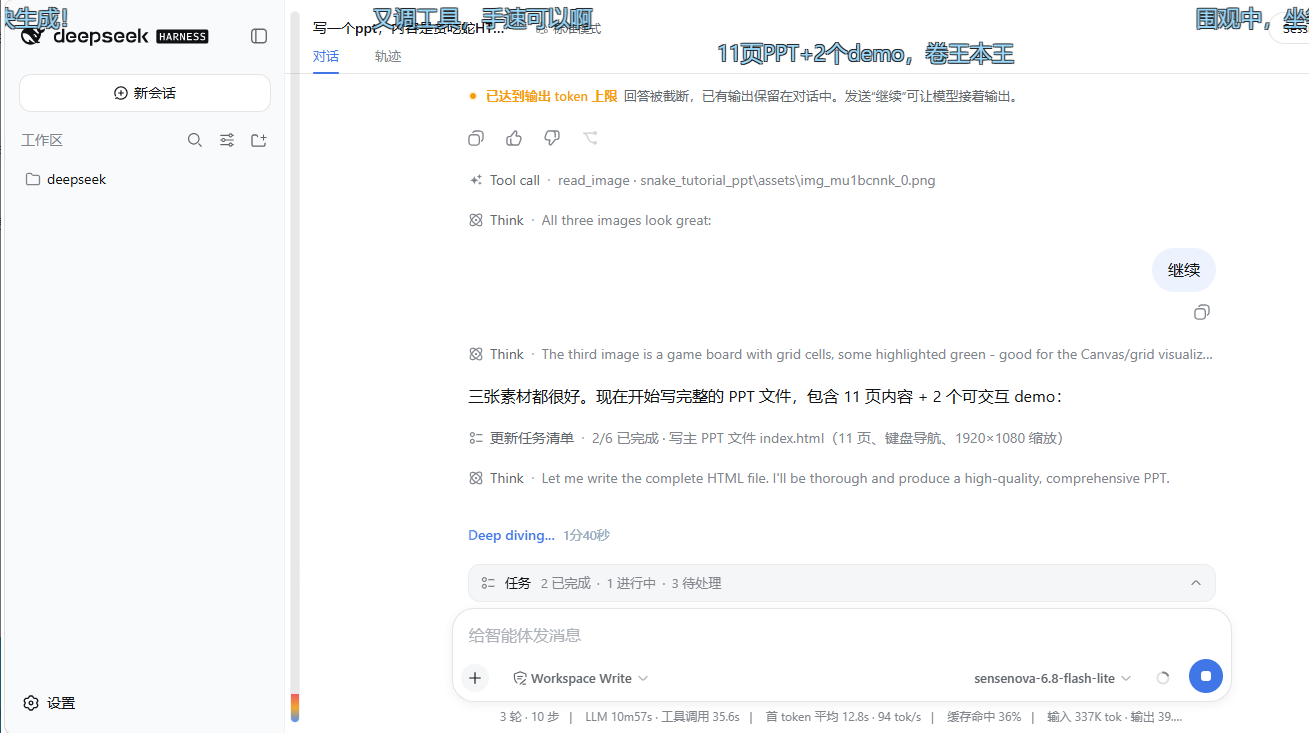
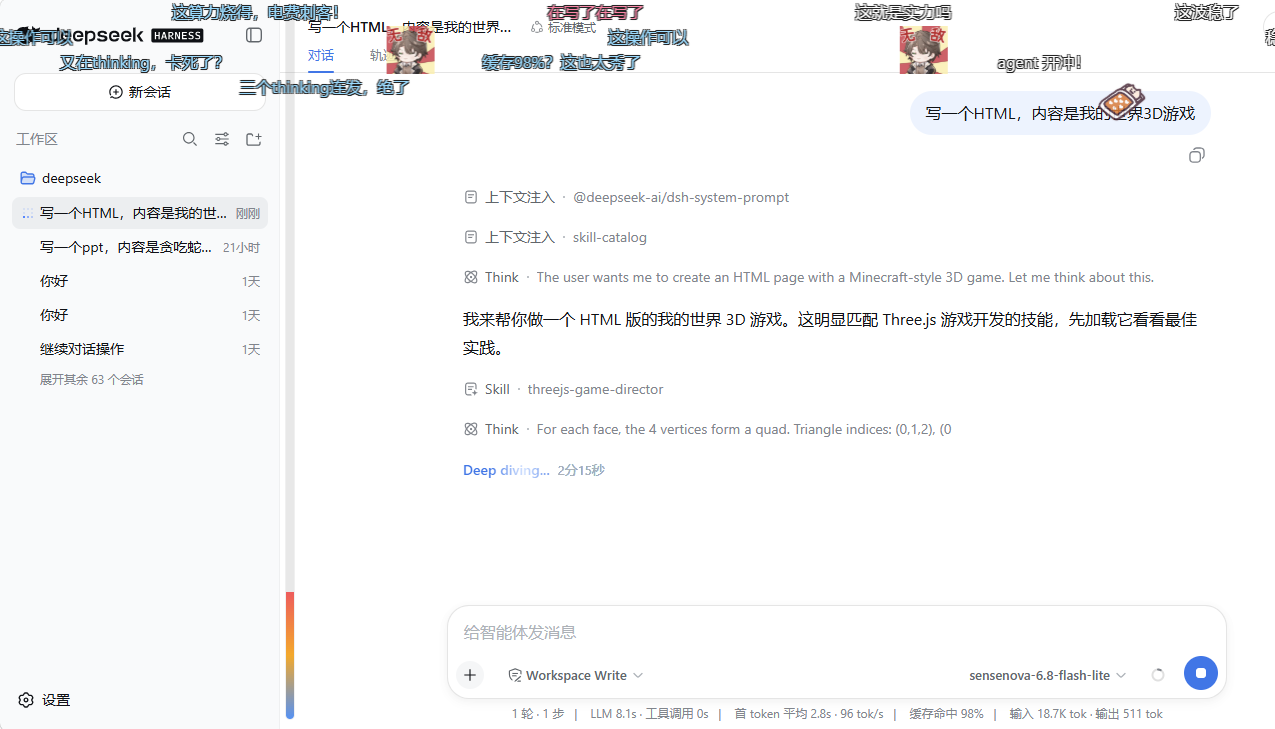
fix: demo shot, emoji default 0.15, image contain-fit, AI uses color config
- README demo asset replaced with latest UI screenshot
- emojiTotalProb default 0.08 → 0.15
- emoji cards object-fit contain + padding (no crop)
- drop forced #89D5FF for AI danmaku; use colorWeights/uniformColor
- version 0.3.1

diff --git a/lib/client.js b/lib/client.js
@@ -86,7 +86,7 @@ window.__ModuleLoader__.load({
 			debugLogs: false,
 			emojiEnabled: false,
 			emojiBaseSize: 48,
-			emojiTotalProb: 0.08,
+			emojiTotalProb: 0.15,
 			styleTemplates: [
 				{ id: 'tucao', name: '吐槽', prompt: '吐槽风格，短促有力，偶尔阴阳怪气但友善' },
 				{ id: 'praise', name: '称赞', prompt: '夸张称赞，像看到神仙操作的围观群众' },
@@ -2542,7 +2542,7 @@ window.__ModuleLoader__.load({
 					onChange: function (v) { patch({ emojiBaseSize: v }) }
 				})),
 				row('emojiTotalProb', t('emojiTotalProb'), sliderField({
-					min: 0, max: 0.5, step: 0.01, value: draft.emojiTotalProb != null ? draft.emojiTotalProb : 0.08,
+					min: 0, max: 0.5, step: 0.01, value: draft.emojiTotalProb != null ? draft.emojiTotalProb : 0.15,
 					disabled: draft.emojiEnabled === false,
 					onChange: function (v) { patch({ emojiTotalProb: v }) }
 				})),
@@ -4276,7 +4276,15 @@ window.__ModuleLoader__.load({
 								}, [
 									React.createElement('img', {
 										key: 'i', src: it.url, alt: it.name,
-										style: { width: '100%', height: '100%', objectFit: 'contain', borderRadius: 8 }
+										style: {
+											width: '100%',
+											height: '100%',
+											objectFit: 'contain',
+											objectPosition: 'center',
+											padding: 8,
+											boxSizing: 'border-box',
+											borderRadius: 8
+										}
 									}),
 									React.createElement('div', {
 										key: 'n',
@@ -4704,7 +4712,7 @@ window.__ModuleLoader__.load({
 					return {
 						content: it.content,
 						source: it.source || source || 'preset',
-						color: it.color || ((it.source || source) === 'ai' ? '#89D5FF' : undefined),
+						color: it.color || undefined,
 						kind: it.kind || 'normal',
 						at: it.at,
 						tags: it.tags
@@ -5088,7 +5096,7 @@ window.__ModuleLoader__.load({
 							rendererRef.current.spawn([{
 								content: wp.content,
 								source: wp.source,
-								color: wp.source === 'ai' ? '#89D5FF' : undefined,
+								color: undefined,
 								layout: pickLayout(configRef.current.layoutWeights)
 							}])
 						} else {

diff --git a/lib/index.js b/lib/index.js
@@ -109,7 +109,7 @@ const DEFAULTS = {
   uniformColor: false,
   emojiEnabled: false,
   emojiBaseSize: 48,
-  emojiTotalProb: 0.08,
+  emojiTotalProb: 0.15,
   color: '#FFFFFF',
   colorWeights: [
     { color: '#FFFFFF', weight: 70 },
@@ -1325,7 +1325,7 @@ function apply(ctx, _config) {
       kind: 'exact',
       path: '/api/danmaku/health',
       handler: async (_req, res) => {
-        sendJson(res, 200, { ok: true, name, version: '0.3.0' })
+        sendJson(res, 200, { ok: true, name, version: '0.3.1' })
       },
     })
 

diff --git a/README.md b/README.md
@@ -4,7 +4,7 @@
 
 # dsh-livechat
 
-[![version](https://img.shields.io/badge/version-0.3.0-blue)](https://github.com/huashenglian/dsh-livechat)
+[![version](https://img.shields.io/badge/version-0.3.1-blue)](https://github.com/huashenglian/dsh-livechat)
 [![license](https://img.shields.io/badge/license-MIT-green)](#许可证)
 [![platform](https://img.shields.io/badge/platform-DeepSeek%20Harness-orange)](https://github.com/deepseek-ai)
 

diff --git a/README.en.md b/README.en.md
@@ -4,7 +4,7 @@
 
 # dsh-livechat
 
-[![version](https://img.shields.io/badge/version-0.3.0-blue)](https://github.com/huashenglian/dsh-livechat)
+[![version](https://img.shields.io/badge/version-0.3.1-blue)](https://github.com/huashenglian/dsh-livechat)
 [![license](https://img.shields.io/badge/license-MIT-green)](#license)
 [![platform](https://img.shields.io/badge/platform-DeepSeek%20Harness-orange)](https://github.com/deepseek-ai)
 
